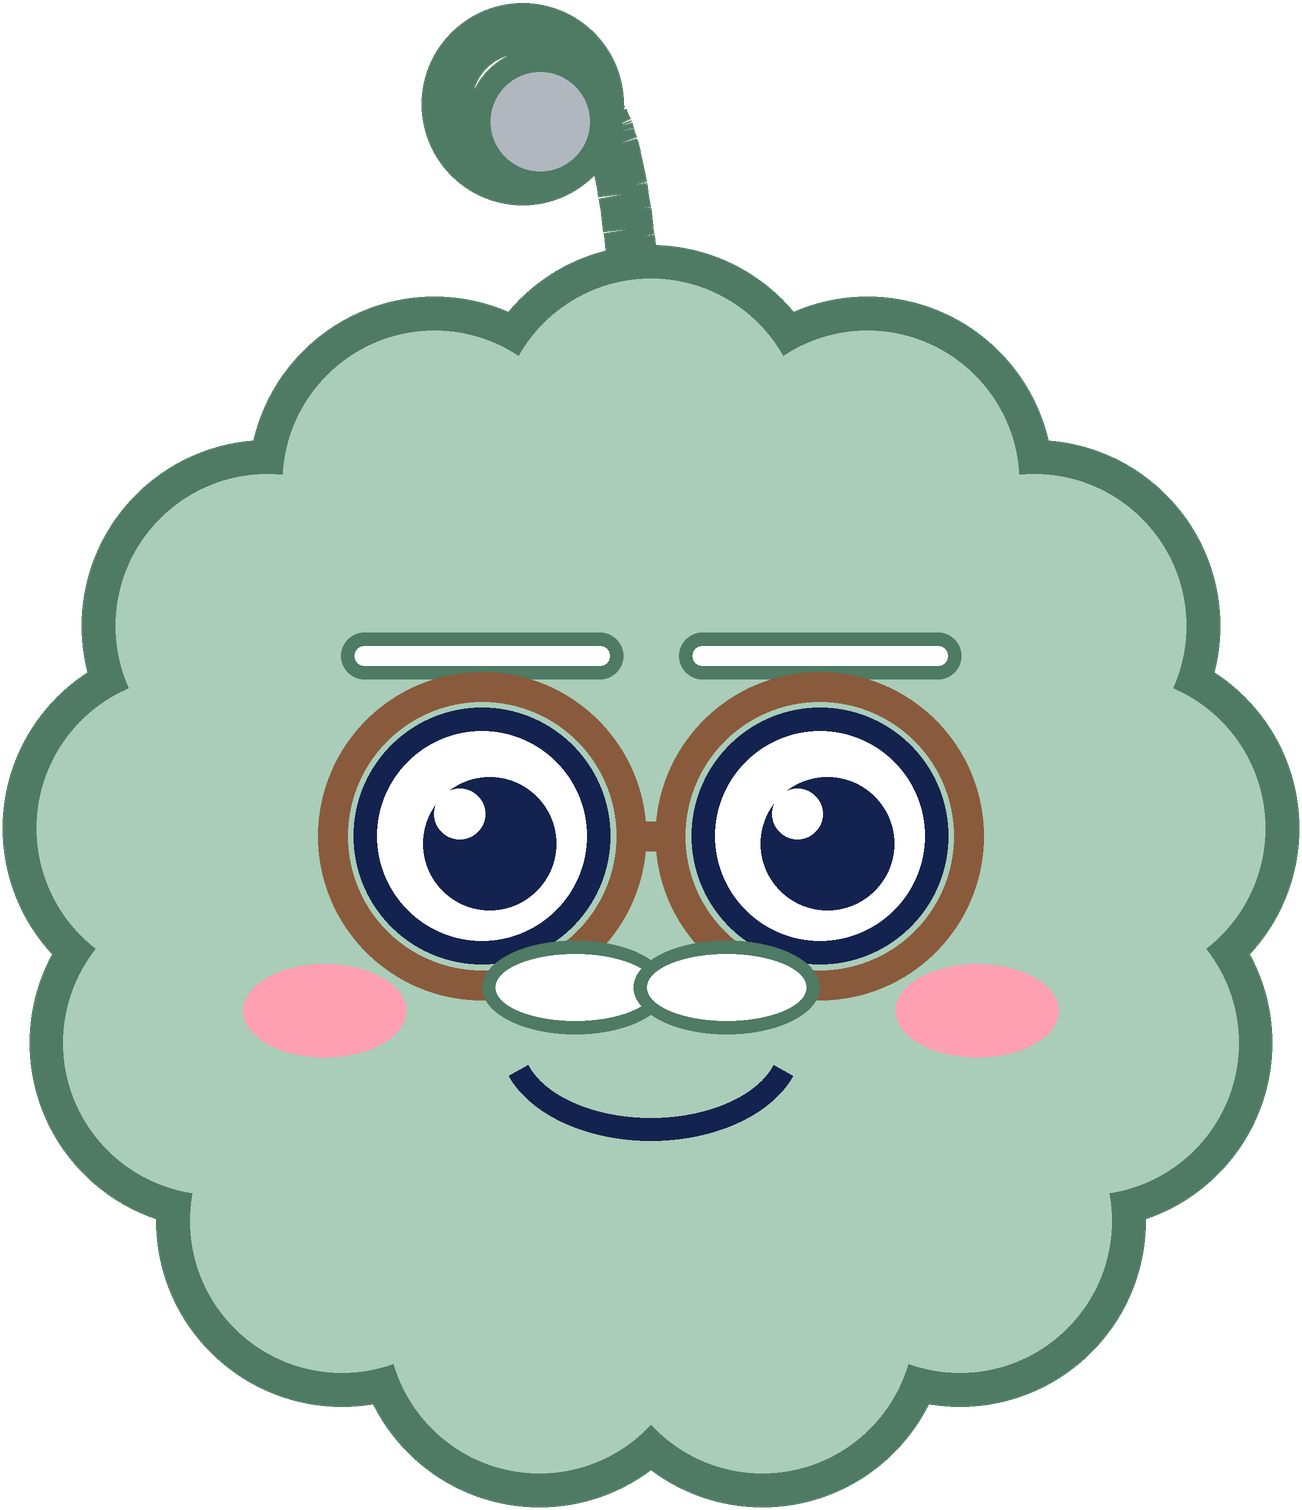
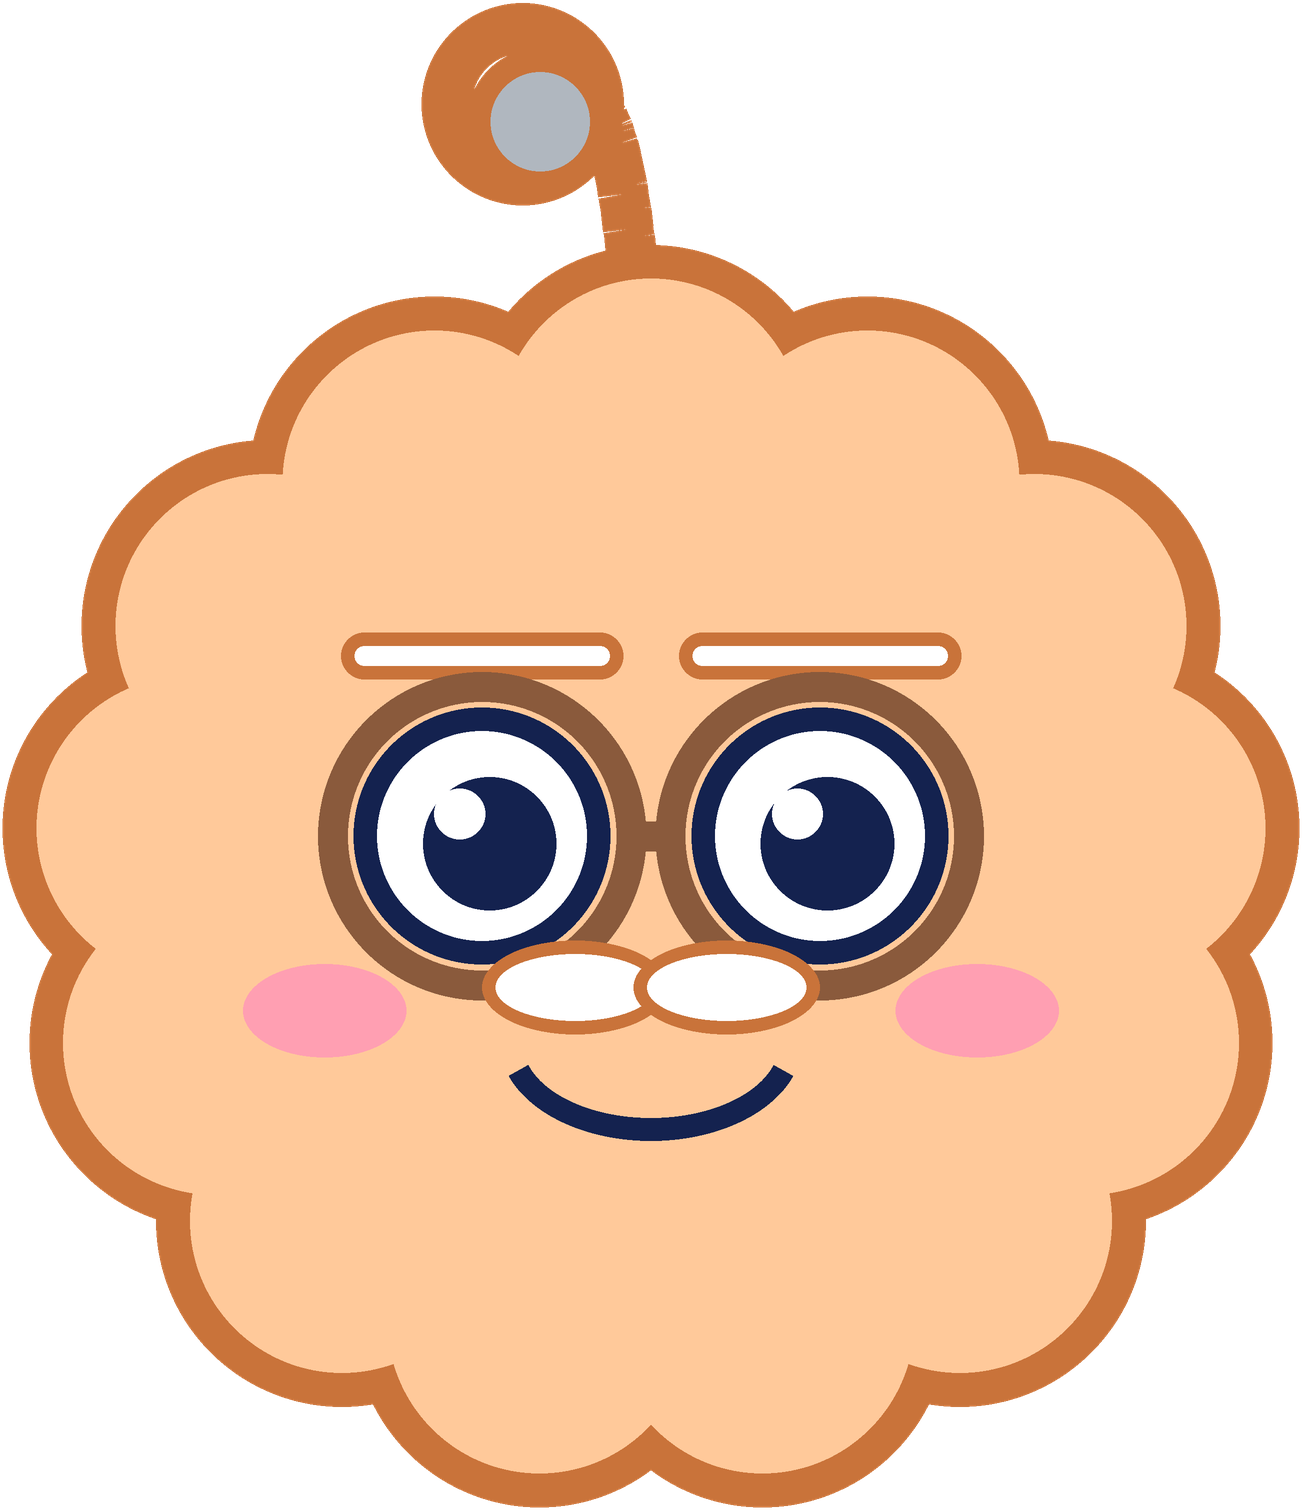
Family: final colours (one clear colour each; Mokki stays the only green one)
Claude-Session: https://claude.ai/code/session_01FDApwfFej8PqNKS8oSjWQN

diff --git a/mokki/character/family/draw_family.py b/mokki/character/family/draw_family.py
@@ -19,17 +19,17 @@ def hexc(h):
 
 FAMILY = [
     # id, name, size, body, outline, accent, eyes(left r, right r), n bumps, extras
-    dict(id="papa", name="Papa Moko", size=1.22, body="#6CCFB6", line="#17766A", bead="#4A90E2", eyes=(0.27, 0.27), bumps=14,
+    dict(id="papa", name="Papa Moko", size=1.22, body="#8CCBFA", line="#2A6FB0", bead="#FFD23F", eyes=(0.27, 0.27), bumps=14,
          extras=["mustache", "brows"]),
-    dict(id="mama", name="Mama Mimi", size=1.12, body="#B4EDA0", line="#4E9A2E", bead="#FF8FB8", eyes=(0.27, 0.27), bumps=13,
+    dict(id="mama", name="Mama Mimi", size=1.12, body="#FFB8CF", line="#D65A86", bead="#FF6B9A", eyes=(0.27, 0.27), bumps=13,
          extras=["flower", "lashes"]),
-    dict(id="pia", name="Pia (little sister)", size=0.82, body="#A6F0DA", line="#2A9C7C", bead="#FF6B9A", eyes=(0.33, 0.33), bumps=11,
+    dict(id="pia", name="Pia (little sister)", size=0.82, body="#D5BDF7", line="#7B55C7", bead="#FF6B9A", eyes=(0.33, 0.33), bumps=11,
          extras=["bow", "lashes"]),
-    dict(id="pip", name="Pip (baby brother)", size=0.66, body="#9BE3F0", line="#1F8CA3", bead="#FFD23F", eyes=(0.36, 0.36), bumps=10,
+    dict(id="pip", name="Pip (baby brother)", size=0.66, body="#FFE58A", line="#D19A12", bead="#4A90E2", eyes=(0.36, 0.36), bumps=10,
          extras=["sprout", "pacifier"]),
-    dict(id="grandpa", name="Grandpa Moss", size=1.12, body="#A9CDB8", line="#4F7A63", bead="#B0B7BF", eyes=(0.22, 0.22), bumps=13,
+    dict(id="grandpa", name="Grandpa Moss", size=1.12, body="#FFC99A", line="#C9733A", bead="#B0B7BF", eyes=(0.22, 0.22), bumps=13,
          extras=["glasses", "white_brows", "white_mustache", "droopy"]),
-    dict(id="grandma", name="Granny Mo", size=1.06, body="#C9E7C2", line="#5E8F66", bead="#C9A2E8", eyes=(0.22, 0.22), bumps=12,
+    dict(id="grandma", name="Granny Mo", size=1.06, body="#F9CFC3", line="#B9705E", bead="#C9A2E8", eyes=(0.22, 0.22), bumps=12,
          extras=["glasses", "bun", "pearls", "lashes"]),
 ]
 
@@ -151,7 +151,7 @@ def draw_char(c, mouth=True):
         for k in range(5):
             a = 2 * math.pi * k / 5
             px, py = fx + 0.09 * R * math.cos(a), fy + 0.09 * R * math.sin(a)
-            d.ellipse([px - 0.075 * R, py - 0.075 * R, px + 0.075 * R, py + 0.075 * R], fill=hexc("#FF8FB8"))
+            d.ellipse([px - 0.075 * R, py - 0.075 * R, px + 0.075 * R, py + 0.075 * R], fill=hexc("#FFFFFF"), outline=hexc("#D65A86"), width=int(t * 0.35))
         d.ellipse([fx - 0.05 * R, fy - 0.05 * R, fx + 0.05 * R, fy + 0.05 * R], fill=hexc("#FFD23F"))
     if "bow" in c["extras"]:
         bx, by = cx - 0.36 * R, top + 0.14 * R

diff --git a/mokki/character/family/FAMILY-SHEET.md b/mokki/character/family/FAMILY-SHEET.md
@@ -6,13 +6,13 @@ Each file has a `-nomouth` twin for lip-sync; `family.json` stores eye/mouth pos
 
 | Character | Who | Size vs Mokki | Body / outline | How toddlers recognise them |
 |---|---|---|---|---|
-| **Papa Moko** | Dad | 1.22× (biggest) | teal `#6CCFB6` / `#17766A` | navy mustache, thick eyebrows, blue antenna bead |
-| **Mama Mimi** | Mum | 1.12× | lime `#B4EDA0` / `#4E9A2E` | pink flower, eyelashes, pink bead |
-| **Mokki** | the hero | 1× | mint `#8EEBC4` / `#1E8F6A` | one big eye + one small eye, coral bead |
-| **Pia** | little sister | 0.82× | light mint `#A6F0DA` / `#2A9C7C` | pink bow, eyelashes, big eyes |
-| **Pip** | baby brother | 0.66× (smallest) | sky blue `#9BE3F0` / `#1F8CA3` | little leaf sprout instead of an antenna, pacifier |
-| **Grandpa Moss** | grandpa | 1.12× | sage `#A9CDB8` / `#4F7A63` | round glasses, white eyebrows + white mustache, grey bead, antenna curls the other way |
-| **Granny Mo** | grandma | 1.06× | pale sage `#C9E7C2` / `#5E8F66` | round glasses, white hair bun, pearl necklace, eyelashes |
+| **Papa Moko** | Dad | 1.22× (biggest) | sky blue `#8CCBFA` / `#2A6FB0` | navy mustache, thick eyebrows, yellow bead |
+| **Mama Mimi** | Mum | 1.12× | pink `#FFB8CF` / `#D65A86` | white flower, eyelashes, pink bead |
+| **Mokki** | the hero (the only green one) | 1× | mint `#8EEBC4` / `#1E8F6A` | one big eye + one small eye, coral bead |
+| **Pia** | little sister | 0.82× | lavender `#D5BDF7` / `#7B55C7` | pink bow, eyelashes, big eyes |
+| **Pip** | baby brother | 0.66× (smallest) | sunny yellow `#FFE58A` / `#D19A12` | little leaf sprout instead of an antenna, pacifier |
+| **Grandpa Moss** | grandpa | 1.12× | warm orange `#FFC99A` / `#C9733A` | round glasses, white eyebrows + white mustache, grey bead, antenna curls the other way |
+| **Granny Mo** | grandma | 1.06× | rosy peach `#F9CFC3` / `#B9705E` | round glasses, white hair bun, pearl necklace, eyelashes |
 
 Voices (ElevenLabs, chosen when each first speaks): Papa – warm friendly man · Mama – gentle kind woman ·
 Pia – sweet little girl · Pip – baby giggles/babbles · Grandpa – kind old storyteller · Granny – soft warm grandmother.
